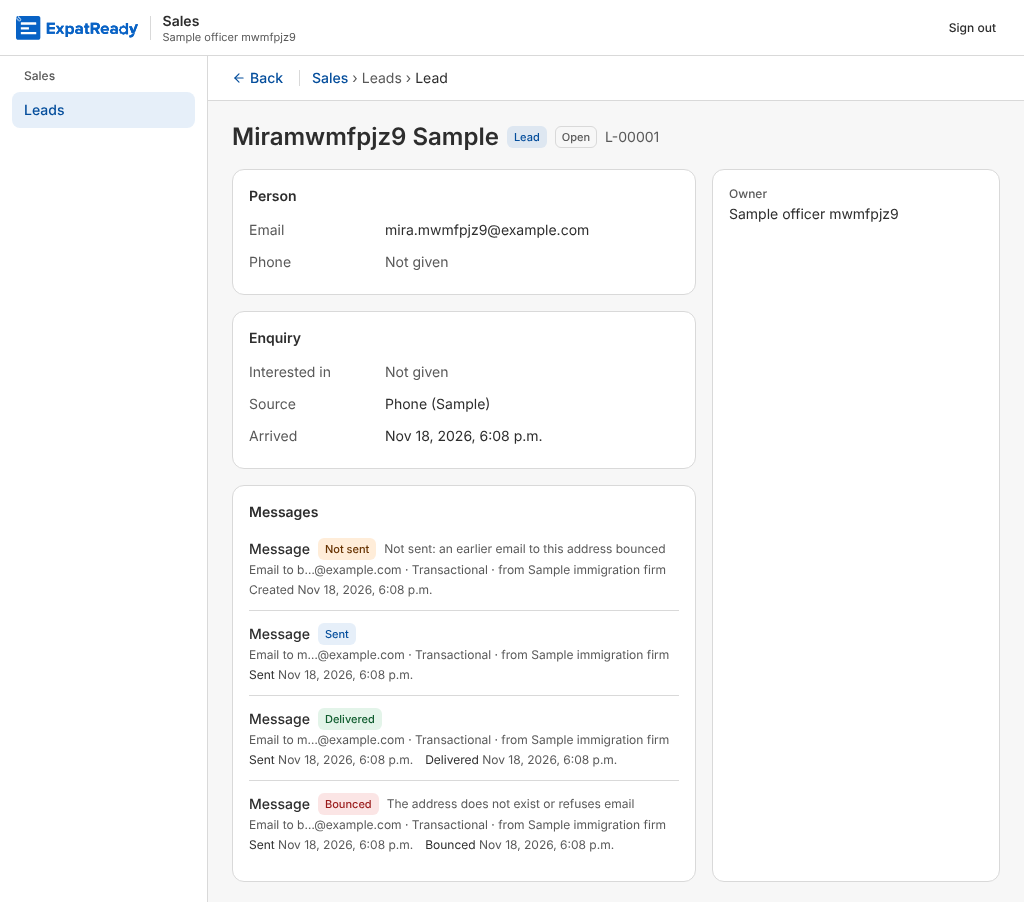
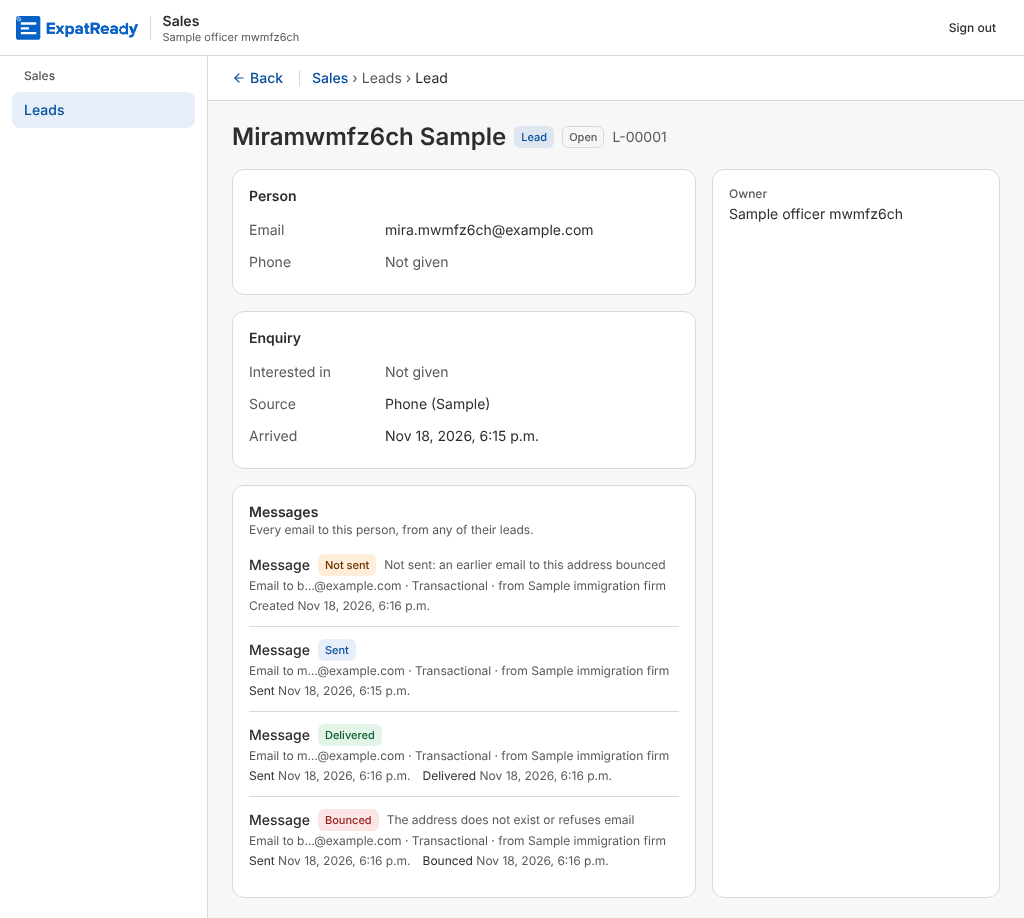
runtime: PF-19b part 3 — break fixes: year-0000 cursor 400 (m1), panel cache cleared at sign-out (m2), the box says it lists the person's emails (m4); break report
Claude-Session: https://claude.ai/code/session_018BSQJo9hHGemaYv7zS7fqE

diff --git a/ai-workers/problem-1-pathway-setup-and-form-filling/prototype/studio/web/src/modules/platform/messages/messages-panel.tsx b/ai-workers/problem-1-pathway-setup-and-form-filling/prototype/studio/web/src/modules/platform/messages/messages-panel.tsx
@@ -33,7 +33,7 @@ function Row({ m, focusRef }: { m: Message; focusRef?: React.Ref<HTMLLIElement> 
 
 export function MessagesPanel({ subject }: { subject: Subject }) {
   const q = useInfiniteQuery({
-    queryKey: ["platform", "messages", subject.kind, subject.id], retry: false, initialPageParam: null as string | null,
+    queryKey: ["pf", "messages", subject.kind, subject.id] /* under "pf": sign-out and sign-in clear it (break m2) */, retry: false, initialPageParam: null as string | null,
     queryFn: async ({ pageParam }) => MessagePage.parse(await staffApi(`/platform/messages?subjectKind=${subject.kind}&subjectId=${encodeURIComponent(subject.id)}${pageParam ? `&cursor=${encodeURIComponent(pageParam)}` : ""}`)),
     getNextPageParam: (last) => last.nextCursor,
   });
@@ -44,6 +44,7 @@ export function MessagesPanel({ subject }: { subject: Subject }) {
   return (
     <section aria-labelledby="pf-messages" data-messages-panel className="rounded-xl border border-border bg-surface-raised p-4">
       <h2 id="pf-messages" className="text-sm font-semibold">Messages</h2>
+      {subject.kind === "CASE_PARTY" ? null : <p className="text-xs text-text-muted">Every email to this person, from any of their leads.</p>}
       {q.isPending ? <p role="status" className="mt-2 text-sm text-text-muted">Loading the messages…</p>
         : q.isError ? (
           <div role="alert" className="mt-2 flex flex-wrap items-center gap-2 text-sm text-text-danger">

diff --git a/ai-workers/problem-1-pathway-setup-and-form-filling/prototype/studio/tests/check_pf19b3_delivery.ts b/ai-workers/problem-1-pathway-setup-and-form-filling/prototype/studio/tests/check_pf19b3_delivery.ts
@@ -208,9 +208,9 @@ try {
   const times = p1.messages.map((m) => Date.parse(m.createdAt));
   ok("DW5 pass: 51 messages → a page of 50, newest first, and a next page of 1 (no repeats)",
     p1.messages.length === PAGE && !!p1.nextCursor && p2.messages.length === 1 && p2.nextCursor === null && times.every((t, i) => i === 0 || t <= times[i - 1]) && !p1.messages.some((m) => m.id === p2.messages[0].id), { n1: p1.messages.length, n2: p2.messages.length });
-  const cursors = ["x", `2026-13-45T25:61:61.000Z_${uuid()}`, "2026-11-18T10:00:00.000Z_------------------------------------", `2026-02-30T10:00:00.000Z_${uuid()}`];
+  const cursors = ["x", `2026-13-45T25:61:61.000Z_${uuid()}`, "2026-11-18T10:00:00.000Z_------------------------------------", `2026-02-30T10:00:00.000Z_${uuid()}`, `0000-01-01T00:00:00.000Z_${uuid()}`];
   const bads = await Promise.all(cursors.map((cursor) => status(staff.list(officer, { subjectKind: "FO_PERSON", subjectId: many.id, cursor }))));
-  ok("DW5 fail: a cursor that is not one we gave (text, an impossible date, an all-dash id) → 400, never 500 (review m3)", bads.every((b) => String(b).startsWith("400:")), bads);
+  ok("DW5 fail: a cursor that is not one we gave (text, an impossible date, an all-dash id, year 0000) → 400, never 500 (review m3)", bads.every((b) => String(b).startsWith("400:")), bads);
 } finally {
   connectLocalNotices(null);
   await db.$disconnect();

diff --git a/ai-workers/problem-1-pathway-setup-and-form-filling/prototype/studio/api/src/platform/messages/staff-routes.ts b/ai-workers/problem-1-pathway-setup-and-form-filling/prototype/studio/api/src/platform/messages/staff-routes.ts
@@ -65,7 +65,7 @@ export class StaffMessages {
     const kind = SUBJECT_KINDS.find((k) => k === q.subjectKind);
     if (!kind || typeof q.subjectId !== "string" || !UUID.test(q.subjectId)) return notFound();
     const c = q.cursor === undefined ? null : CURSOR.exec(q.cursor);
-    if (q.cursor !== undefined && (!c || Number.isNaN(Date.parse(c[1])) || new Date(c[1]).toISOString() !== c[1].toUpperCase())) return problem(400, "Check the page", "cursor: the nextCursor of the page before.", { code: "BAD_CURSOR" });
+    if (q.cursor !== undefined && (!c || Number.isNaN(Date.parse(c[1])) || Number(c[1].slice(0, 4)) < 2000 || new Date(c[1]).toISOString() !== c[1].toUpperCase())) return problem(400, "Check the page", "cursor: the nextCursor of the page before.", { code: "BAD_CURSOR" });
     const s = await this.subject(ctx, kind, q.subjectId.toLowerCase());
     const before = c ? { OR: [{ createdAt: { lt: new Date(c[1]) } }, { createdAt: new Date(c[1]), id: { lt: c[2].toLowerCase() } }] } : {};
     const [rows, firm] = await Promise.all([

diff --git a/ai-workers/problem-1-pathway-setup-and-form-filling/product/screens/pf-19b3-messages/break-report.md b/ai-workers/problem-1-pathway-setup-and-form-filling/product/screens/pf-19b3-messages/break-report.md
@@ -1,0 +1,97 @@
+# Break report: PF-19b part 3, delivery state and the staff message list (adversarial breaker)
+
+**Target:** head `9c5207100` (diff `2aa433a4e..9c5207100`), brief `lead-b-briefs/PF-19b3.md` (c5bf956f9).
+* The builder pushed `ed67de0b9` (review fixes) during this run, so items it touches were re-run on that head and marked.
+* **Copy:** isolated copy `br_pf19b3` on :4543 (`PLATFORM_IDENTITY=local`), restarted once on `ed67de0b9` and stopped afterwards.
+* **Method:** probes from scratch scripts against the copy's real routes, its own worker, and Playwright/axe (nothing kept in the repo).
+* **Scope (P-26):** the brief's "What to build" only. The from-name's proof and OPENED are on its "Not in this part" list.
+
+**Verdict:** no Blocker. One Major, which `ed67de0b9` fixes (verified). Five Minor are still open on `ed67de0b9`.
+
+## Breaks
+
+**Major**
+* **B1. Keyboard focus is lost on "Show older messages"** (DW6 keyboard only, EXPERIENCE BIC-20). Fixed in `ed67de0b9`.
+  * Where: `web/src/modules/platform/messages/messages-panel.tsx:47` (at 9c52).
+  * Steps: the lead's owner opens a lead whose person has 120 messages, Tabs to "Show older messages" and presses Enter.
+  * Expected: focus stays on the button or moves to the first new message, and a second Enter loads page 3.
+  * Actual: the rows grow to 100, but `busy` disables the button and focus drops to `<body>`. A second Enter does nothing (rows stay at 100). The new rows are not announced either.
+  * Re-run on `ed67de0b9`: focus lands on the first new `<li>`, and one Tab reaches the button again. **Fixed.**
+
+**Minor**
+* **m1. Impossible cursors answer 500 or the wrong words.** `api/src/platform/messages/staff-routes.ts:19,68,70`. Partly fixed in `ed67de0b9`.
+  * At 9c52: `cursor=2026-13-45T25:61:61.999Z_<uuid>` and `0000-01-01T00:00:00.000Z_<uuid>` answer **500**. An id of 36 dashes, or 36 hex digits with no dashes, answers 404 "Not found (it may have been removed by a reset)." where BAD_CURSOR 400 is expected.
+  * On `ed67de0b9`: those now answer 400, **except year 0000, which still gives 500** (`Date.parse` accepts it and the database refuses it). Years 0001-9999 give 200.
+  * Expected: 400 BAD_CURSOR for every cursor the server did not issue.
+* **m2. A staff answer outlives the session.** Sign-out and sign-in do not clear the panel's answers.
+  * Where: the query key is `["platform","messages",kind,id]` (`messages-panel.tsx:35`, `:36` on ed67). Sign-out and sign-in drop or refresh only `STAFF_KEYS = [["fo"],["pf"]]` (`web/src/modules/platform/session.ts:27,36,97`, the break S2 rule: "a new person never sees the last person's rows").
+  * Actual: the last person's message lists stay in the page's query cache after sign-out, and a new sign-in does not refresh them.
+  * No visible leak was found: the panel mounts only after the lead read succeeds for the new person, and firm B on firm A's URL sees "Lead not found" with no panel. Fix by key prefix (`["pf", "messages", …]`).
+* **m3. The from-name is the firm's name now, not the name the email carried.** `staff-routes.ts:81,87`.
+  * Steps: rename `platform_firm.operating_name` to "Renamed Firm Ltd" and re-read a lead with 16 old messages.
+  * Expected: each message shows the From it was sent with ("Sample immigration firm", as in the stored rendering the demo inbox shows).
+  * Actual: all 16 messages read "from Renamed Firm Ltd". A record of what was sent now says something that did not happen.
+* **m4. The lead page lists the person's messages, not the lead's.** `staff-routes.ts:51` maps LEAD to its FO_PERSON.
+  * Steps: person P has lead L1 (owner Officer O) and lead L2 (owner Officer O2), and three emails go to P. O on L1 and O2 on L2 each see the same three messages, including any sent from the other's lead.
+  * This matches the person read rule (`leads.ts:166`), so it is not a wall break, but the panel does not say that it lists the person's messages. Recommendation: a question for the tech lead, not a code change.
+* **m5. Most rows have no purpose** (builder Q3, reviewer m4). Already raised, and still open on `ed67de0b9`.
+  * Every row with no template key reads "Message".
+  * Booking mail reads "Booking" for its confirmation, its reminders and the host copy alike (`staff-routes.ts:31-35`).
+* **m6. Raw stored codes on the panel** (`messages-panel.tsx:19` at 9c52). Fixed in `ed67de0b9`.
+  * At 9c52: "(content changed)", "(SUPPRESSED: HARD_BOUNCE)", and an unknown state shown as its code ("WEIRD_NEW").
+  * On `ed67de0b9`: "Not sent: an earlier email to this address bounced" and "Unknown". **Fixed.**
+* **m7. The error state has no recovery control** (`messages-panel.tsx:44` at 9c52). Fixed in `ed67de0b9`.
+  * At 9c52: an injected 500 or 403 shows "Please try again" with no button.
+  * On `ed67de0b9`: a Try again button. **Fixed.**
+
+## What held
+
+**Walls (DW5)**
+* I ran 7 roles × 5 leads: Officer O, Officer O2, Read-only, Owner, an Officer later deactivated, Billing, and firm B's Owner. On leads owned by O, by O2, by the deactivated Officer, unassigned, and in firm B, every one of the 35 cells matched the lead page's own status (200 or 404).
+* Read-only gets 404 on someone else's lead, and 200 on an unassigned one (it holds view.all), the same as the lead page.
+* FO_PERSON reads follow the same rule. Firm B gets 404 on everything of firm A's.
+* **Owner change:** the old owner gets 404 at once (lead, LEAD messages and FO_PERSON messages).
+* **Deactivated or suspended owner:** the lead counts as Unassigned, identically on the lead page and in the messages read. The deactivated person's own token gets 401.
+* **The same 404 words** ("Not found" / "No such record in your firm." / NOT_FOUND) for: firm B, unseen, a lead that does not exist, an unknown kind, a malformed id.
+* **No session or a bad token:** 401.
+
+**Tampering**
+* These all answer the same 404:
+  * a repeated `subjectId` or `subjectKind`;
+  * an array or an object as a parameter;
+  * a lowercase `lead`;
+  * a leading space, a NUL byte, or a 5,000-character id;
+  * `STAFF`, a person id sent as LEAD, a lead id sent as FO_PERSON, or a random CASE_PARTY.
+* An uppercase id is accepted. Extra `firmId` and `audience` parameters are ignored. An empty or repeated cursor answers 400.
+* A cursor with an uppercase id pages correctly. Another subject's message id used as a cursor is only a position (no rows from that subject).
+
+**Leaks**
+* No body text, subject line, full address or address local part in the answer. The address reads `o…@example.com`.
+* Non-ASCII addresses are refused at send.
+
+**Paging and budgets**
+* 120 messages with the same millisecond: pages of 50/50/20, 120 unique, none missing, 10-13 ms a page.
+
+**Delivery state (DW1-DW3)**
+* SENT plus a Delivery → DELIVERED with one event. The same notice again → `repeated`. A second notice id → ignored and logged.
+* Bounce then Delivery → BOUNCED. Delivery then Bounce → BOUNCED (forward).
+* 8 rows, each sent 6 Deliveries and 1 Bounce at once → each BOUNCED, with exactly 1 DELIVERED and 1 BOUNCED event.
+* These are all ignored:
+  * a Delivery on a QUEUED row (logged) or on a FAILED row;
+  * a Delivery tagged firm B for firm A's row;
+  * an SES notice naming a `local:` row;
+  * `notificationType: "delivery"` in lower case.
+* An unsigned notice at the copy's `/api/public/messages/ses-notices` → 400 "not signed by Amazon SNS".
+
+**The local adapter's test events (DW4)**
+* 60 deliveries on a 10-connection pool and 120 on a 3-connection pool, all at once: every one DELIVERED, no lost or failed event, no log line.
+* On the copy's own worker, the uppercase `Bounce@Example.COM` became BOUNCED with suppression HARD_BOUNCE, and the next send to it became SUPPRESSED.
+* The demo inbox lists DELIVERED rows (50 of 187, its cap) and drops the BOUNCED Sample row.
+* Observation, not this row's: the worker sends about 30 a minute (`pgboss-jobs.ts:98,268`, poll 2 s, batch 1, PF-14). A backlog of 400 therefore takes minutes, not "one worker cycle".
+
+**Panel (DW6)**
+* No sideways scroll at 1440, 1024, 375 and 320 px, or at 200 % zoom (640 CSS px).
+* axe finds no A/AA violation with 120 messages, in light or dark.
+* A 300-character purpose and an RTL from-name wrap within 375 px.
+* Back and reload keep the list (16 rows).
+* 404, 500, 403 and a malformed answer each show an alert, and the rest of the lead page still works.

diff --git a/ai-workers/problem-1-pathway-setup-and-form-filling/product/screens/pf-19b3-messages/notes.md b/ai-workers/problem-1-pathway-setup-and-form-filling/product/screens/pf-19b3-messages/notes.md
@@ -26,3 +26,7 @@ Searched `main` (`git grep DELIVERED` under `api/src`: only the type and the uns
 6. **@OwnOrAll sweep entry (review m5):** asking for `GET /api/platform/messages` to get a sweep entry in `check_pf6b_permission_rules.ts` (its own row), then the marker.
 7. **PR body (review m5):** `Card unchanged:` lines for the `api-features` and `web-shell` cards (one line each: a provider/controller line and a two-line mount, no entry point of theirs changes).
 8. `api/src/front-office/MODULE.md` is 42 lines on the base (module-cards fails before this change); not touched here.
+9. **From-name (break m3):** the read gives the firm's current operating name; after a rename, old messages read the new name. The name each email was sent with is only in its stored rendered file, which PF-19e seals (only the worker and the demo inbox open it). R1.48's from-name clause is J-48's to prove (brief, "Not in this part"). Recommendation: store `from_name` on the outbox row in a later row (a schema change), not by opening the file here.
+10. **Person, not lead (break m4):** the lead page lists the person's messages (the outbox keys on the person), so two leads of one person show the same list; it matches the person read rule. The box now says "Every email to this person, from any of their leads." Recommendation: keep.
+
+Break report (`break-report.md`): Major B1 and Minors m6, m7 fixed in ed67de0b9; m1 (year 0000 cursor) and m2 (cache key under "pf", cleared at sign-out) fixed after it; m3, m4 and m5 are questions 9, 10 and 3 above.
